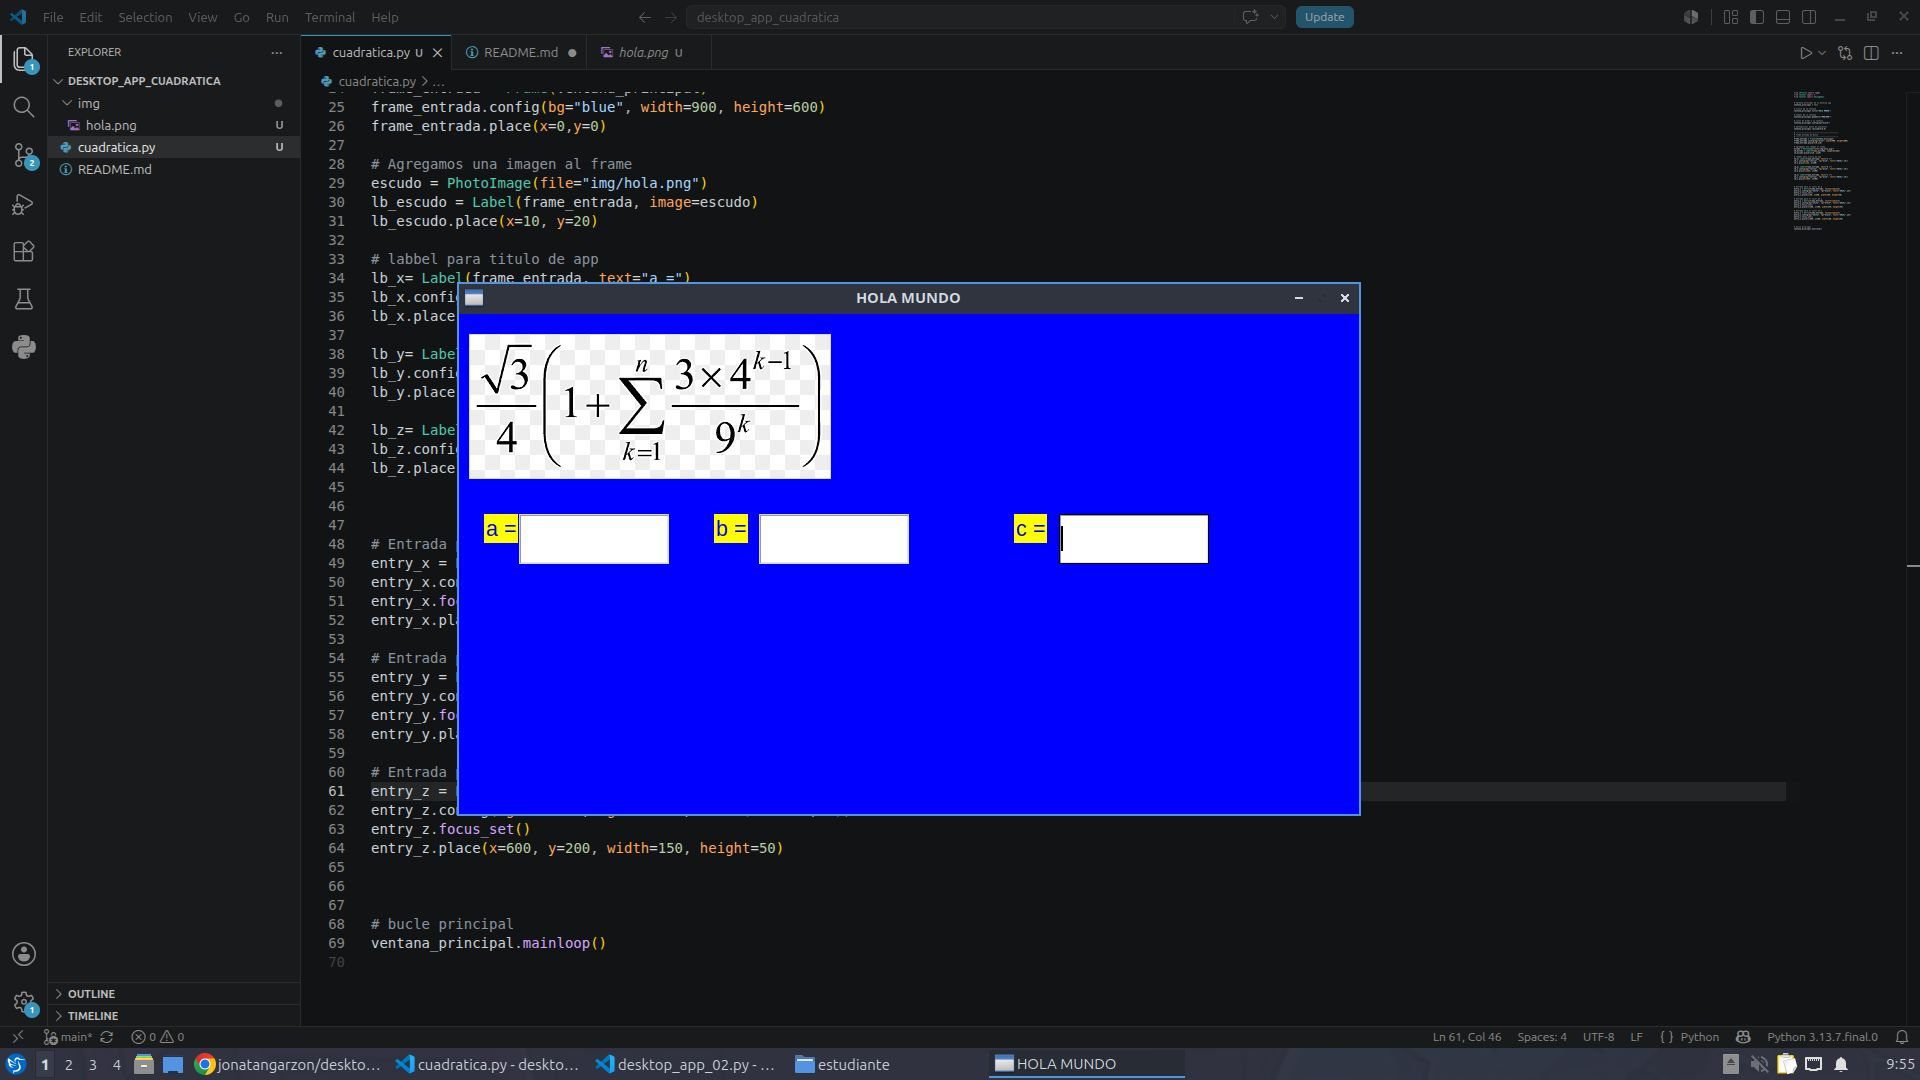
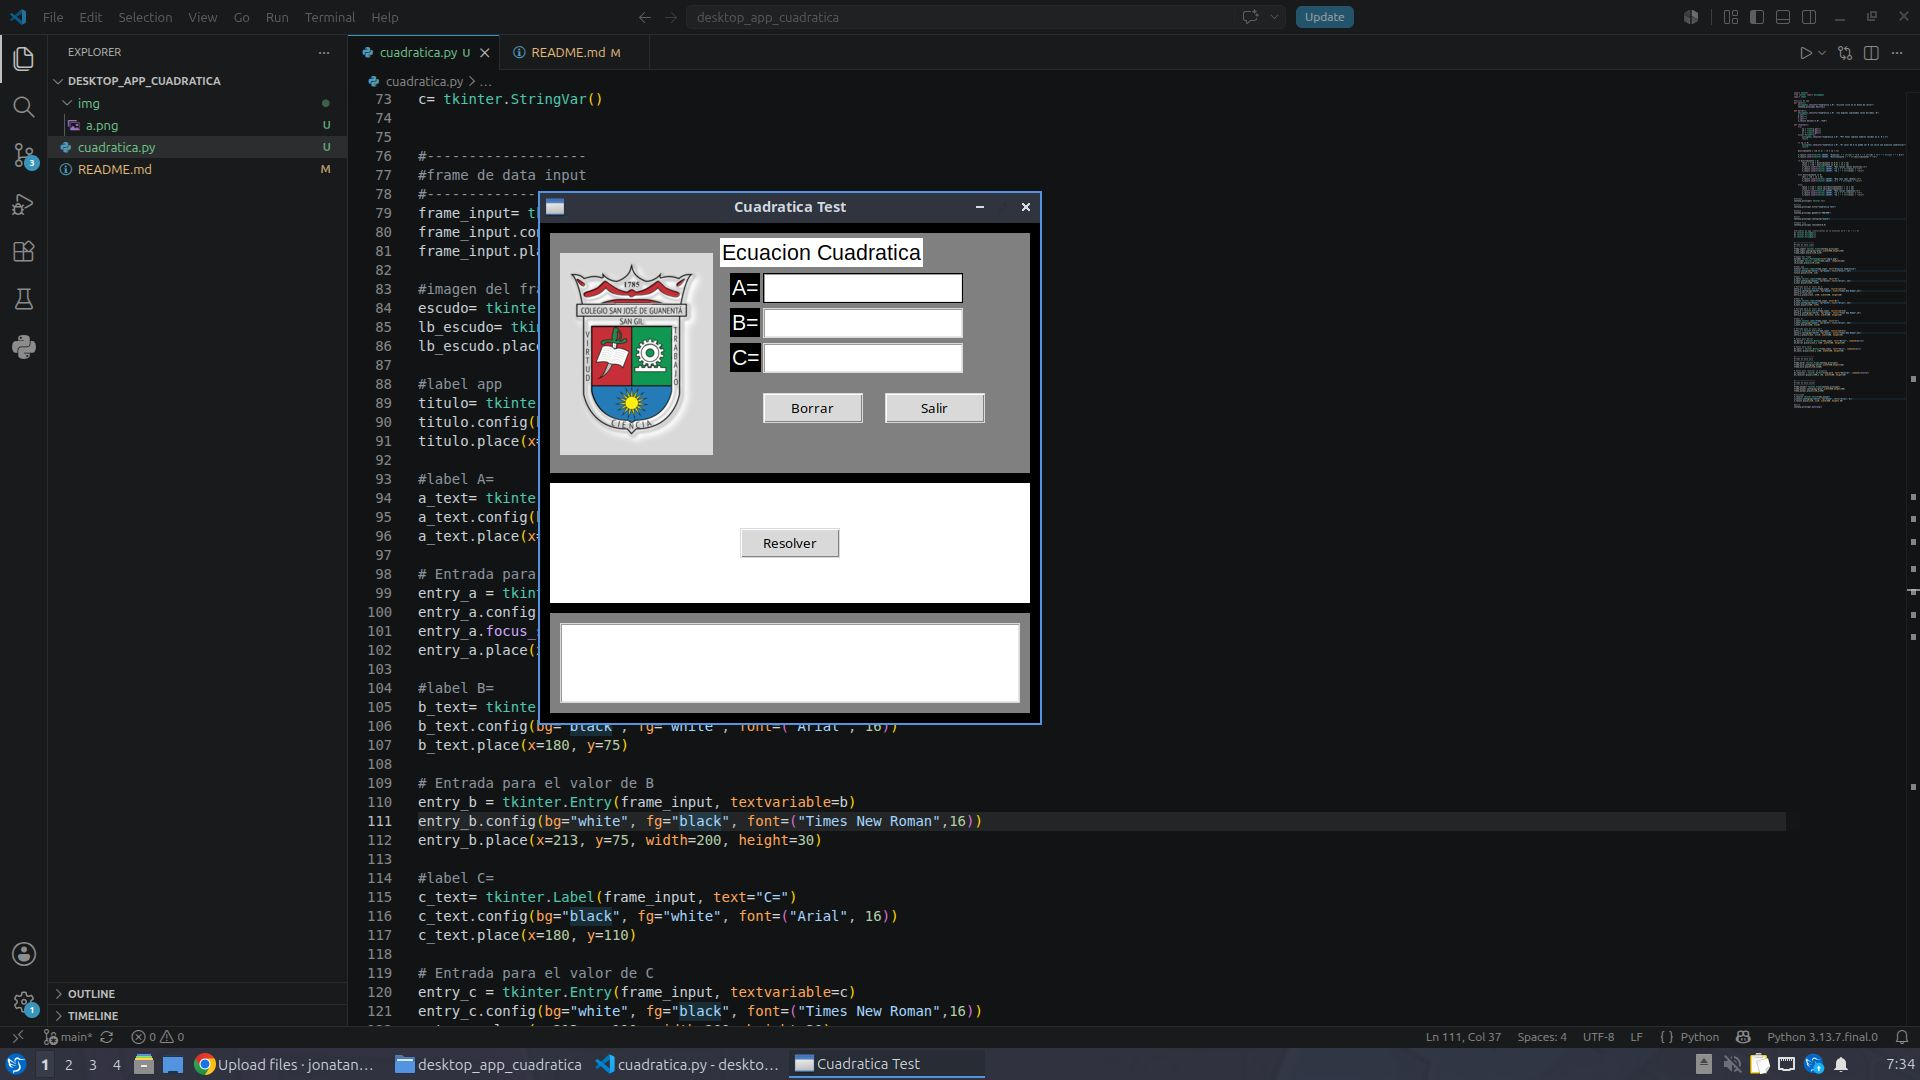
Add files via upload

diff --git a/cuadratica.py b/cuadratica.py
@@ -1,69 +1,158 @@
-from cProfile import label
-from tkinter import *
+import tkinter
 from tkinter import messagebox
+import cmath
 
+#funcion de app
+def salir():
+    messagebox.showinfo("Cuadratica 1.0", "hiciste click en el boton de cerrar")
+    ventana_principal.destroy()
 
-# Ventana principal de la desktop app
-ventana_principal = Tk()
+def borrar():
+    messagebox.showinfo("Cuadratica 1.0", "Los digitos ingresados seran borrados :D")
+    a.set("")
+    b.set("")
+    c.set("")
+    t_result.delete("1.0", "end")
 
-# titulo de la ventana
-ventana_principal.title("HOLA MUNDO")
+def resolver():
+    try:
+        va = float(a.get())
+        vb = float(b.get())
+        vc = float(c.get())
+    except ValueError:
+        messagebox.showinfo("Cuadratica 1.0", "Por favor ingresa numeros validos en A, B y C")
+        return
 
-# tamaño de la ventana 
-ventana_principal.geometry("900x500")
+    if va == 0:
+        messagebox.showinfo("Cuadratica 1.0", "El valor de A no puede ser 0 (no seria una ecuacion cuadratica)")
+        return
 
-# color de fondo a la ventana
+    discriminante = (vb ** 2) - (4 * va * vc)
+
+    t_result.insert(tkinter.INSERT, "Ecuacion: " + str(va) + "x^2 + " + str(vb) + "x + " + str(vc) + " = 0\n")
+    t_result.insert(tkinter.INSERT, "Discriminante = " + str(discriminante) + "\n")
+
+    if discriminante > 0:
+        raiz1 = (-vb + discriminante ** 0.5) / (2 * va)
+        raiz2 = (-vb - discriminante ** 0.5) / (2 * va)
+        t_result.insert(tkinter.INSERT, "Dos raices reales distintas:\n")
+        t_result.insert(tkinter.INSERT, "x1 = " + str(raiz1) + "\n")
+        t_result.insert(tkinter.INSERT, "x2 = " + str(raiz2) + "\n\n")
+
+    elif discriminante == 0:
+        raiz = -vb / (2 * va)
+        t_result.insert(tkinter.INSERT, "Una raiz real (doble):\n")
+        t_result.insert(tkinter.INSERT, "x = " + str(raiz) + "\n\n")
+
+    else:
+        raiz1 = (-vb + cmath.sqrt(discriminante)) / (2 * va)
+        raiz2 = (-vb - cmath.sqrt(discriminante)) / (2 * va)
+        t_result.insert(tkinter.INSERT, "Dos raices complejas:\n")
+        t_result.insert(tkinter.INSERT, "x1 = " + str(raiz1) + "\n")
+        t_result.insert(tkinter.INSERT, "x2 = " + str(raiz2) + "\n\n")
+
+#ventana
+ventana_principal= tkinter.Tk()
+
+#titulo
+ventana_principal.title("Cuadratica Test")
+
+#tamaño
+ventana_principal.geometry("500x500")
+
+#color
 ventana_principal.config(bg="black")
 
-# deshabilitar boton de maximizar
+#tamaño fijo
 ventana_principal.resizable(0,0)
 
-# ------------------------------------------
-# Frame entrada de datos
-# ------------------------------------------
-frame_entrada = Frame(ventana_principal)
-frame_entrada.config(bg="blue", width=900, height=600)
-frame_entrada.place(x=0,y=0)
 
-# Agregamos una imagen al frame
-escudo = PhotoImage(file="img/hola.png")
-lb_escudo = Label(frame_entrada, image=escudo)
-lb_escudo.place(x=10, y=20)
-
-# labbel para titulo de app
-lb_x= Label(frame_entrada, text="a =")                                                                                                 
-lb_x.config(bg="yellow", fg="blue", font=("ARIAL",16))                          
-lb_x.place(x=25, y=200)                                                                                                         
-
-lb_y= Label(frame_entrada, text="b =")
-lb_y.config(bg="yellow", fg="blue", font=("ARIAL",16)) 
-lb_y.place(x=255, y=200)
-
-lb_z= Label(frame_entrada, text="c =")
-lb_z.config(bg="yellow", fg="blue", font=("ARIAL",16)) 
-lb_z.place(x=555, y=200)
+#variables de app (coeficientes de la ecuacion ax^2 + bx + c = 0)
+a= tkinter.StringVar()
+b= tkinter.StringVar()
+c= tkinter.StringVar()
 
 
+#-------------------
+#frame de data input
+#-------------------
+frame_input= tkinter.Frame(ventana_principal)
+frame_input.config(bg="gray",width=480,height=240)
+frame_input.place(x=10,y=10)
 
-# Entrada para el valor de X
-entry_x = Entry(frame_entrada, textvariable=X)
-entry_x.config(bg="white", fg="black", font=("ARIAL",16))
-entry_x.focus_set()
-entry_x.place(x=60, y=200, width=150, height=50)                        
+#imagen del frame
+escudo= tkinter.PhotoImage(file="img/a.png")
+lb_escudo= tkinter.Label(frame_input, image=escudo)
+lb_escudo.place(x=10,y=20)
 
-# Entrada para el valor de y
-entry_y = Entry(frame_entrada, textvariable=Y)
-entry_y.config(bg="white", fg="black", font=("ARIAL",16))
-entry_y.focus_set()
-entry_y.place(x=300, y=200, width=150, height=50)
+#label app
+titulo= tkinter.Label(frame_input, text="Ecuacion Cuadratica")
+titulo.config(bg="white", fg="black", font=("Arial", 16))
+titulo.place(x=170, y=5)
 
-# Entrada para el valor de z
-entry_z = Entry(frame_entrada, textvariable=Y)
-entry_z.config(bg="white", fg="black", font=("ARIAL",16))
-entry_z.focus_set()
-entry_z.place(x=600, y=200, width=150, height=50)
+#label A=
+a_text= tkinter.Label(frame_input, text="A=")
+a_text.config(bg="black", fg="white", font=("Arial", 16))
+a_text.place(x=180, y=40)
+
+# Entrada para el valor de A
+entry_a = tkinter.Entry(frame_input, textvariable=a)
+entry_a.config(bg="white", fg="black", font=("Times New Roman",16))
+entry_a.focus_set()
+entry_a.place(x=213, y=40, width=200, height=30)
+
+#label B=
+b_text= tkinter.Label(frame_input, text="B=")
+b_text.config(bg="black", fg="white", font=("Arial", 16))
+b_text.place(x=180, y=75)
+
+# Entrada para el valor de B
+entry_b = tkinter.Entry(frame_input, textvariable=b)
+entry_b.config(bg="white", fg="black", font=("Times New Roman",16))
+entry_b.place(x=213, y=75, width=200, height=30)
+
+#label C=
+c_text= tkinter.Label(frame_input, text="C=")
+c_text.config(bg="black", fg="white", font=("Arial", 16))
+c_text.place(x=180, y=110)
+
+# Entrada para el valor de C
+entry_c = tkinter.Entry(frame_input, textvariable=c)
+entry_c.config(bg="white", fg="black", font=("Times New Roman",16))
+entry_c.place(x=213, y=110, width=200, height=30)
+
+# boton para borrar
+bt_borrar = tkinter.Button(frame_input, text="Borrar", command=borrar)
+bt_borrar.place(x=213,y =160, width=100, height=30)
+
+# boton para salir
+bt_salir = tkinter.Button(frame_input, text="Salir", command=salir)
+bt_salir.place(x=335,y =160, width=100, height=30)
 
 
+#-------------------
+#frame de data work
+#-------------------
+frame_work= tkinter.Frame(ventana_principal)
+frame_work.config(bg="white",width=480,height=120)
+frame_work.place(x=10,y=260)
 
-# bucle principal
-ventana_principal.mainloop()  
+# boton para resolver la ecuacion
+bt_resolver = tkinter.Button(frame_work, text="Resolver", command=resolver)
+bt_resolver.place(x=190,y =45, width=100, height=30)
+
+
+#--------------------
+#frame de data answer
+#--------------------
+frame_answer= tkinter.Frame(ventana_principal)
+frame_answer.config(bg="gray",width=480,height=100)
+frame_answer.place(x=10,y=390)
+
+#resultado
+t_result= tkinter.Text(frame_answer)
+t_result.config(bg="white", fg="black", font=("Arial", 9))
+t_result.place(x=10, y=10, width=460, height= 80)
+
+#bucle
+ventana_principal.mainloop()

diff --git a/README.md b/README.md
@@ -1,2 +1,6 @@
 # desktop_app_cuadratica
 hola
+
+
+![alt text](screen.jpg)
+
